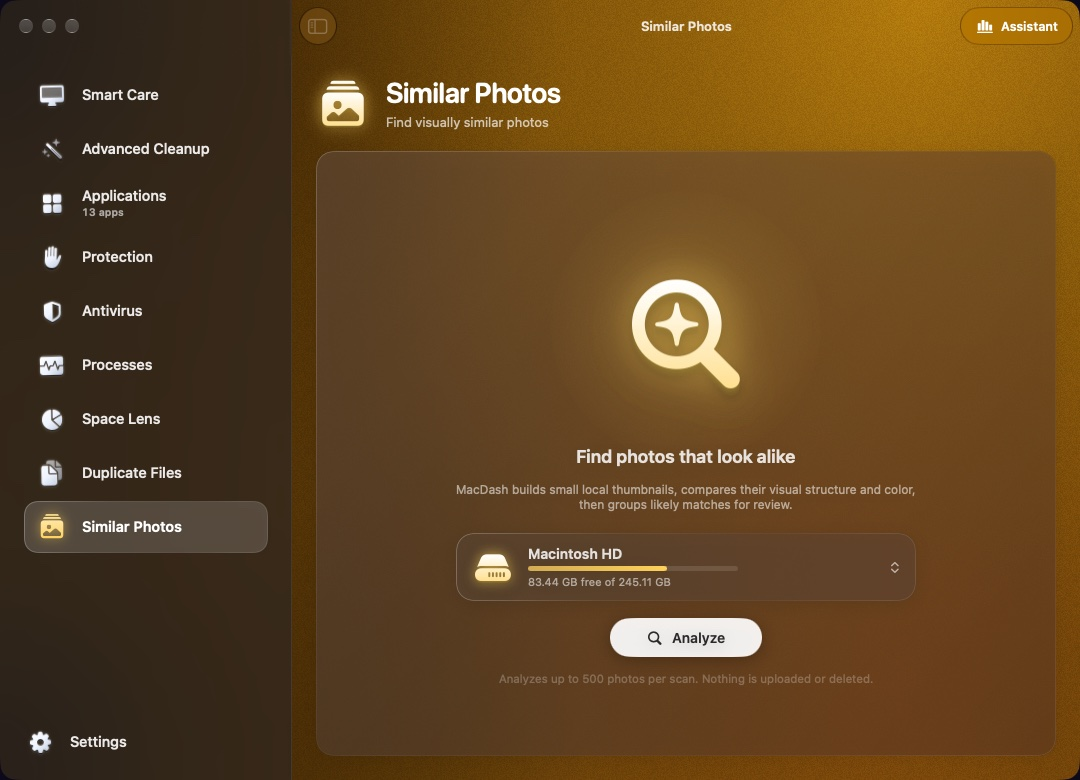
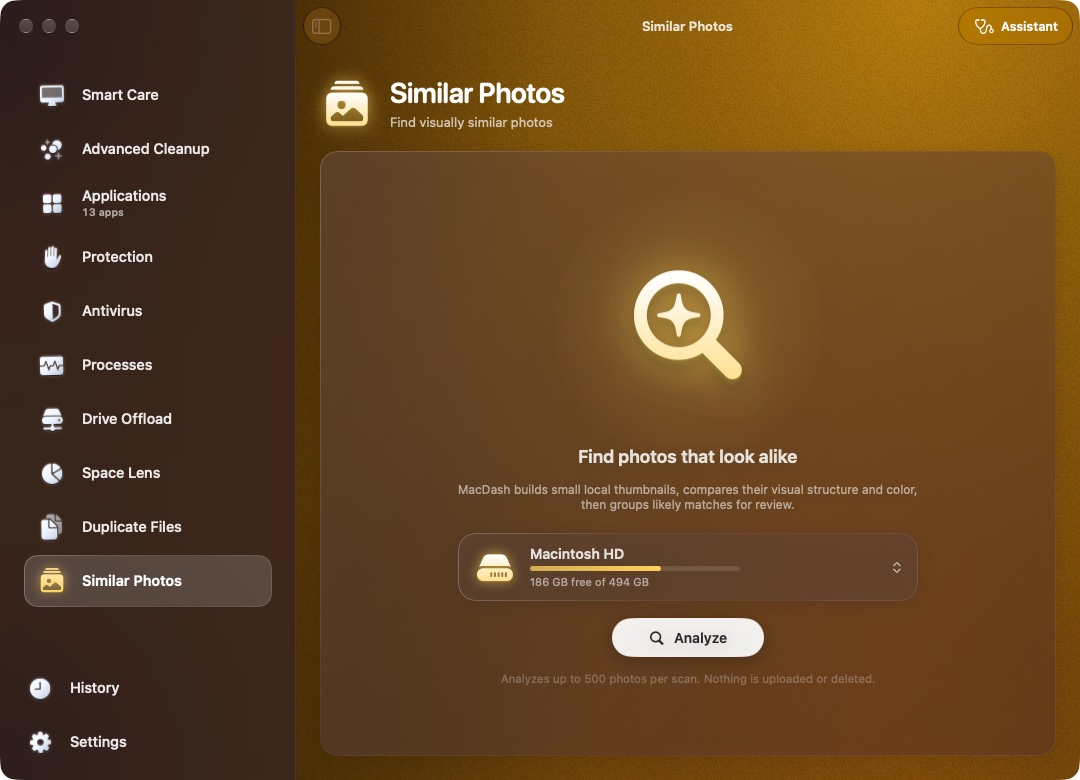
MacDash: new screenshots for 1.4 and sections for Assistant, History and Drive Offload
Shots retaken in English demo mode (new sidebar and toolbar). The old Assistant card described a panel that no longer exists.

diff --git a/macdash/index.html b/macdash/index.html
@@ -66,12 +66,12 @@
     <p class="req"><span data-version="macdash" data-no-i18n></span> macOS 13 Ventura ou mais novo · Apple Silicon e Intel · Gratuito</p>
 
     <div class="wu-stage">
-      <figure class="wu-main"><button class="shot" type="button"><img src="../assets/shots/macdash/home.jpg?v=202610271200" alt="Cuidado inteligente do MacDash: o que será verificado, o disco, CPU, memória e temperatura do Mac" width="1080" height="780"></button></figure>
-      <figure class="wu-float wu-float-tray" style="width:34%"><button class="shot" type="button"><img src="../assets/shots/macdash/processes.jpg?v=202610271200" alt="Processos: CPU, memória, temperatura e atividade do Mac" width="800" height="400"></button></figure>
+      <figure class="wu-main"><button class="shot" type="button"><img src="../assets/shots/macdash/home.jpg?v=202611141200" alt="Cuidado inteligente do MacDash: o que será verificado, o disco, CPU, memória e temperatura do Mac" width="1080" height="780"></button></figure>
+      <figure class="wu-float wu-float-tray" style="width:34%"><button class="shot" type="button"><img src="../assets/shots/macdash/processes.jpg?v=202611141200" alt="Processos: CPU, memória, temperatura e atividade do Mac" width="800" height="400"></button></figure>
     </div>
 
     <div class="wu-stats">
-      <div><b>9</b><span>ferramentas numa janela</span></div>
+      <div><b>11</b><span>ferramentas numa janela</span></div>
       <div><b>8</b><span>áreas na limpeza avançada</span></div>
       <div><b>13</b><span>idiomas na interface</span></div>
       <div><b>0</b><span>itens removidos sem revisão</span></div>
@@ -90,14 +90,50 @@
         <button type="button" role="tab" id="t-plan" aria-controls="p-plan">Plano de limpeza</button>
         <button type="button" role="tab" id="t-review" aria-controls="p-review">Revisão</button>
       </div>
-      <div class="wu-panel" role="tabpanel" id="p-plan" aria-labelledby="t-plan"><figure><button class="shot" type="button"><img src="../assets/shots/macdash/care-results.jpg?v=202610271200" alt="Resultado do Cuidado inteligente: espaço encontrado e cartões por categoria" loading="lazy" width="1080" height="780"></button><figcaption class="wu-cap">O plano de limpeza: quanto há em cada categoria e quanto está selecionado.</figcaption></figure></div>
-      <div class="wu-panel" role="tabpanel" id="p-review" aria-labelledby="t-review" hidden><figure><button class="shot" type="button"><img src="../assets/shots/macdash/care-review.jpg?v=202610271200" alt="Revisão do Cuidado inteligente: categorias à esquerda e os itens do cache à direita" loading="lazy" width="1080" height="780"></button><figcaption class="wu-cap">A revisão: categorias à esquerda, cada item à direita, marcado ou não.</figcaption></figure></div>
+      <div class="wu-panel" role="tabpanel" id="p-plan" aria-labelledby="t-plan"><figure><button class="shot" type="button"><img src="../assets/shots/macdash/care-results.jpg?v=202611141200" alt="Resultado do Cuidado inteligente: espaço encontrado e cartões por categoria" loading="lazy" width="1080" height="780"></button><figcaption class="wu-cap">O plano de limpeza: quanto há em cada categoria e quanto está selecionado.</figcaption></figure></div>
+      <div class="wu-panel" role="tabpanel" id="p-review" aria-labelledby="t-review" hidden><figure><button class="shot" type="button"><img src="../assets/shots/macdash/care-review.jpg?v=202611141200" alt="Revisão do Cuidado inteligente: categorias à esquerda e os itens do cache à direita" loading="lazy" width="1080" height="780"></button><figcaption class="wu-cap">A revisão: categorias à esquerda, cada item à direita, marcado ou não.</figcaption></figure></div>
     </div>
     <div class="wu-pair" style="max-width:1040px;margin:36px auto 0">
       <figure><button class="shot" type="button"><img src="../assets/shots/macdash/crop-health.jpg?v=202610271200" alt="Painel Meu Mac: uso do disco, CPU, memória e temperatura ao vivo" loading="lazy" width="725" height="272"></button><figcaption>O seu Mac ao vivo</figcaption></figure>
       <figure><button class="shot" type="button"><img src="../assets/shots/macdash/crop-found.jpg?v=202610271200" alt="Espaço encontrado pelo Cuidado inteligente, por categoria" loading="lazy" width="742" height="244"></button><figcaption>Quanto dá para liberar</figcaption></figure>
     </div>
     <p class="wu-cap">Capturas com dados fictícios de demonstração.</p>
+  </section>
+
+  <!-- ASSISTENTE -->
+  <section class="section container wu-chapter">
+    <div class="section-head">
+      <p class="wu-kicker">Assistente</p>
+      <h2>Pergunte ao Mac o que está ocupando espaço.</h2>
+      <p>Sem IA e sem internet: o Assistente mede o disco e os seus projetos, mostra para onde foi o espaço e lista o que vale a pena fazer, do mais urgente ao que é só bom saber. Ele conhece pastas de build, extensões antigas do VS Code e sessões do Claude Code.</p>
+    </div>
+    <div class="wu-tabset">
+      <div class="wu-tabs" role="tablist" aria-label="Assistente">
+        <button type="button" role="tab" id="t-as-start" aria-controls="p-as-start">Início</button>
+        <button type="button" role="tab" id="t-as-diag" aria-controls="p-as-diag">Diagnóstico</button>
+        <button type="button" role="tab" id="t-as-recs" aria-controls="p-as-recs">Recomendações</button>
+        <button type="button" role="tab" id="t-as-confirm" aria-controls="p-as-confirm">Confirmação</button>
+      </div>
+      <div class="wu-panel" role="tabpanel" id="p-as-start" aria-labelledby="t-as-start"><figure><button class="shot" type="button"><img src="../assets/shots/macdash/assistant.jpg?v=202611141200" alt="Assistente do MacDash pronto para analisar o Mac ou uma pasta" loading="lazy" width="1080" height="780"></button><figcaption class="wu-cap">Analise o Mac inteiro ou só uma pasta. Pelo Finder também: botão direito › Analisar com MacDash.</figcaption></figure></div>
+      <div class="wu-panel" role="tabpanel" id="p-as-diag" aria-labelledby="t-as-diag" hidden><figure><button class="shot" type="button"><img src="../assets/shots/macdash/assistant-results.jpg?v=202611141200" alt="Resultado do Assistente: espaço que pode ser recuperado e o que ocupa o disco" loading="lazy" width="1080" height="780"></button><figcaption class="wu-cap">Quanto dá para recuperar e o que ocupa o disco, numa barra só.</figcaption></figure></div>
+      <div class="wu-panel" role="tabpanel" id="p-as-recs" aria-labelledby="t-as-recs" hidden><figure><button class="shot" type="button"><img src="../assets/shots/macdash/assistant-recs.jpg?v=202611141200" alt="Recomendações do Assistente agrupadas por urgência" loading="lazy" width="1080" height="780"></button><figcaption class="wu-cap">Recomendações por urgência, cada uma com o botão da ferramenta certa.</figcaption></figure></div>
+      <div class="wu-panel" role="tabpanel" id="p-as-confirm" aria-labelledby="t-as-confirm" hidden><figure><button class="shot" type="button"><img src="../assets/shots/macdash/assistant-review.jpg?v=202611141200" alt="Confirmação do Assistente: os itens conferidos de novo antes de ir para a Lixeira" loading="lazy" width="1080" height="780"></button><figcaption class="wu-cap">Antes de mover, cada arquivo é conferido de novo e você escolhe o que vai para a Lixeira.</figcaption></figure></div>
+    </div>
+  </section>
+
+  <section class="section container wu-chapter">
+    <div class="wu-split reverse">
+      <div class="wu-copy">
+        <p class="wu-kicker">Histórico</p>
+        <h2>Cada análise fica guardada.</h2>
+        <p>O Histórico mostra o que o MacDash já fez neste Mac e todas as análises do Assistente. Abra uma para rever o que foi encontrado e o que foi feito, ou apague as antigas.</p>
+        <ul class="wu-list">
+          <li><b>Relatórios só de leitura</b>: nada é executado a partir de uma análise antiga; uma nova confere tudo de novo.</li>
+          <li><b>Apague</b> um relatório, os com mais de 30 dias ou todos.</li>
+        </ul>
+      </div>
+      <div class="wu-media"><figure><button class="shot" type="button"><img src="../assets/shots/macdash/history.jpg?v=202611141200" alt="Histórico do MacDash: atividade e a lista de análises" loading="lazy" width="1080" height="780"></button></figure></div>
+    </div>
   </section>
 
   <!-- LIMPEZA AVANÇADA -->
@@ -113,9 +149,9 @@
         <button type="button" role="tab" id="t-found" aria-controls="p-found">Encontrado</button>
         <button type="button" role="tab" id="t-xcode" aria-controls="p-xcode">Revisão</button>
       </div>
-      <div class="wu-panel" role="tabpanel" id="p-areas" aria-labelledby="t-areas"><figure><button class="shot" type="button"><img src="../assets/shots/macdash/cleanup.jpg?v=202610271200" alt="Limpeza avançada antes de verificar: arquivos, desenvolvedor e máquinas virtuais" loading="lazy" width="1080" height="780"></button><figcaption class="wu-cap">Arquivos grandes, arquivos órfãos, apps sem uso, Xcode, Homebrew, Node, Docker e apps de IA locais.</figcaption></figure></div>
-      <div class="wu-panel" role="tabpanel" id="p-found" aria-labelledby="t-found" hidden><figure><button class="shot" type="button"><img src="../assets/shots/macdash/cleanup-results.jpg?v=202610271200" alt="Limpeza avançada depois de verificar, com o tamanho encontrado em cada área" loading="lazy" width="1080" height="780"></button><figcaption class="wu-cap">O tamanho de cada área, pronto para revisar.</figcaption></figure></div>
-      <div class="wu-panel" role="tabpanel" id="p-xcode" aria-labelledby="t-xcode" hidden><figure><button class="shot" type="button"><img src="../assets/shots/macdash/cleanup-review.jpg?v=202610271200" alt="Revisão da Limpeza avançada com os itens do Xcode" loading="lazy" width="1080" height="780"></button><figcaption class="wu-cap">Cada área com os seus itens, para marcar ou desmarcar antes de limpar.</figcaption></figure></div>
+      <div class="wu-panel" role="tabpanel" id="p-areas" aria-labelledby="t-areas"><figure><button class="shot" type="button"><img src="../assets/shots/macdash/cleanup.jpg?v=202611141200" alt="Limpeza avançada antes de verificar: arquivos, desenvolvedor e máquinas virtuais" loading="lazy" width="1080" height="780"></button><figcaption class="wu-cap">Arquivos grandes, arquivos órfãos, apps sem uso, Xcode, Homebrew, Node, Docker e apps de IA locais.</figcaption></figure></div>
+      <div class="wu-panel" role="tabpanel" id="p-found" aria-labelledby="t-found" hidden><figure><button class="shot" type="button"><img src="../assets/shots/macdash/cleanup-results.jpg?v=202611141200" alt="Limpeza avançada depois de verificar, com o tamanho encontrado em cada área" loading="lazy" width="1080" height="780"></button><figcaption class="wu-cap">O tamanho de cada área, pronto para revisar.</figcaption></figure></div>
+      <div class="wu-panel" role="tabpanel" id="p-xcode" aria-labelledby="t-xcode" hidden><figure><button class="shot" type="button"><img src="../assets/shots/macdash/cleanup-review.jpg?v=202611141200" alt="Revisão da Limpeza avançada com os itens do Xcode" loading="lazy" width="1080" height="780"></button><figcaption class="wu-cap">Cada área com os seus itens, para marcar ou desmarcar antes de limpar.</figcaption></figure></div>
     </div>
   </section>
 
@@ -131,7 +167,7 @@
           <li><b>Atualizações</b> dos seus apps num lugar só.</li>
         </ul>
       </div>
-      <div class="wu-media"><figure><button class="shot" type="button"><img src="../assets/shots/macdash/apps.jpg?v=202610271200" alt="Aplicativos: lista de apps com o tamanho de cada um, abas Desinstalar, Itens de início e Atualizações" loading="lazy" width="1080" height="780"></button></figure></div>
+      <div class="wu-media"><figure><button class="shot" type="button"><img src="../assets/shots/macdash/apps.jpg?v=202611141200" alt="Aplicativos: lista de apps com o tamanho de cada um, abas Desinstalar, Itens de início e Atualizações" loading="lazy" width="1080" height="780"></button></figure></div>
     </div>
   </section>
 
@@ -147,7 +183,7 @@
           <li><b>Testar proteção</b> com o padrão de teste EICAR.</li>
         </ul>
       </div>
-      <div class="wu-media"><figure><button class="shot" type="button"><img src="../assets/shots/macdash/antivirus.jpg?v=202610271200" alt="Antivírus: última verificação, itens para revisar, quarentena e regras" loading="lazy" width="1080" height="780"></button></figure></div>
+      <div class="wu-media"><figure><button class="shot" type="button"><img src="../assets/shots/macdash/antivirus.jpg?v=202611141200" alt="Antivírus: última verificação, itens para revisar, quarentena e regras" loading="lazy" width="1080" height="780"></button></figure></div>
     </div>
   </section>
 
@@ -160,20 +196,36 @@
     </div>
     <div class="wu-skins">
       <article class="wu-skin" style="--s:#f43f5e">
-        <button class="shot" type="button"><img src="../assets/shots/macdash/spacelens.jpg?v=202610271200" alt="Lente de espaço pronta para analisar o disco" loading="lazy" width="1080" height="780"></button>
+        <button class="shot" type="button"><img src="../assets/shots/macdash/spacelens.jpg?v=202611141200" alt="Lente de espaço pronta para analisar o disco" loading="lazy" width="1080" height="780"></button>
         <h3>Lente de espaço</h3>
         <p>Um mapa do disco ou de uma pasta por tamanho. Entre nas pastas e escolha o que não precisa mais.</p>
       </article>
       <article class="wu-skin" style="--s:#2dd4bf">
-        <button class="shot" type="button"><img src="../assets/shots/macdash/duplicates.jpg?v=202610271200" alt="Arquivos duplicados pronto para analisar" loading="lazy" width="1080" height="780"></button>
+        <button class="shot" type="button"><img src="../assets/shots/macdash/duplicates.jpg?v=202611141200" alt="Arquivos duplicados pronto para analisar" loading="lazy" width="1080" height="780"></button>
         <h3>Arquivos duplicados</h3>
         <p>Compara tamanhos primeiro e depois confere byte a byte. Uma cópia de cada grupo fica sempre protegida.</p>
       </article>
       <article class="wu-skin" style="--s:#fbbf24">
-        <button class="shot" type="button"><img src="../assets/shots/macdash/photos.jpg?v=202610271200" alt="Fotos semelhantes pronto para analisar" loading="lazy" width="1080" height="780"></button>
+        <button class="shot" type="button"><img src="../assets/shots/macdash/photos.jpg?v=202611141200" alt="Fotos semelhantes pronto para analisar" loading="lazy" width="1080" height="780"></button>
         <h3>Fotos semelhantes</h3>
         <p>Miniaturas locais comparadas por estrutura e cor, até 500 fotos por análise. Nada é enviado.</p>
       </article>
+    </div>
+  </section>
+
+  <!-- DISCO EXTERNO -->
+  <section class="section container wu-chapter">
+    <div class="wu-split">
+      <div class="wu-copy">
+        <p class="wu-kicker">Disco externo</p>
+        <h2>Mova pastas grandes para um SSD externo.</h2>
+        <p>Modelos de IA, simuladores, máquinas virtuais, Downloads e projetos podem morar num disco externo APFS. O MacDash copia, confere arquivo por arquivo e deixa um link no lugar, então os apps continuam achando tudo.</p>
+        <ul class="wu-list">
+          <li><b>Tudo pode voltar</b>: um interruptor traz a pasta de volta para o Mac.</li>
+          <li><b>Sugestões</b> das pastas que mais liberam espaço.</li>
+        </ul>
+      </div>
+      <div class="wu-media"><figure><button class="shot" type="button"><img src="../assets/shots/macdash/driveoffload.jpg?v=202611141200" alt="Disco externo: pastas movidas para o SSD e sugestões do que mover" loading="lazy" width="1080" height="780"></button></figure></div>
     </div>
   </section>
 
@@ -190,7 +242,7 @@
           <li><b>Barra de menus</b>: um monitor do sistema ao lado do relógio, se você quiser.</li>
         </ul>
       </div>
-      <div class="wu-media"><figure><button class="shot" type="button"><img src="../assets/shots/macdash/settings.jpg?v=202610271200" alt="Ajustes do MacDash: permissões com o status de cada uma" loading="lazy" width="1080" height="560"></button></figure></div>
+      <div class="wu-media"><figure><button class="shot" type="button"><img src="../assets/shots/macdash/settings.jpg?v=202611141200" alt="Ajustes do MacDash: permissões com o status de cada uma" loading="lazy" width="1080" height="560"></button></figure></div>
     </div>
   </section>
 
@@ -199,7 +251,7 @@
     <div class="section-head"><h2>E mais um pouco</h2></div>
     <div class="wu-more">
       <article class="card"><h3>Verificação agendada</h3><p>De hora em hora a mensal, com aviso quando termina.</p></article>
-      <article class="card"><h3>Assistente</h3><p>Sugestões do que fazer em seguida, num painel no canto da janela.</p></article>
+      <article class="card"><h3>Análise pelo Finder</h3><p>Clique com o botão direito numa pasta e escolha Analisar com MacDash.</p></article>
       <article class="card"><h3>13 idiomas</h3><p>Português, inglês, espanhol, francês, alemão, japonês, chinês e mais.</p></article>
       <article class="card"><h3>Atualizações no app</h3><p>O MacDash avisa quando sai uma versão nova.</p></article>
     </div>
@@ -288,7 +340,7 @@
 <script src="../install-command.js?v=202611071600"></script>
 <script src="../script.js?v=202611071700"></script>
 <script src="../i18n-strings.js?v=202611071700"></script>
-<script src="strings.js?v=202610271200"></script>
+<script src="strings.js?v=202611141200"></script>
 <script src="page.js?v=202610271200"></script>
 <script src="../i18n.js?v=202610271200"></script>
 <script src="../effects.js?v=202611061900"></script>

diff --git a/macdash/strings.js b/macdash/strings.js
@@ -74,7 +74,6 @@ window.WITCH_STRINGS = Object.freeze({
   "Verificação agendada": ["Scheduled scans", "Análisis programado", "Проверки по расписанию"],
   "De hora em hora a mensal, com aviso quando termina.": ["From hourly to monthly, with a notice when it's done.", "De cada hora a mensual, con aviso al terminar.", "От ежечасных до ежемесячных — с уведомлением по завершении."],
   "Assistente": ["Assistant", "Asistente", "Помощник"],
-  "Sugestões do que fazer em seguida, num painel no canto da janela.": ["Suggestions for what to do next, in a panel in the window's corner.", "Sugerencias de qué hacer a continuación, en un panel en la esquina de la ventana.", "Подсказки о том, что сделать дальше, — на панели в углу окна."],
   "13 idiomas": ["13 languages", "13 idiomas", "13 языков"],
   "Português, inglês, espanhol, francês, alemão, japonês, chinês e mais.": ["Portuguese, English, Spanish, French, German, Japanese, Chinese and more.", "Portugués, inglés, español, francés, alemán, japonés, chino y más.", "Португальский, английский, испанский, французский, немецкий, японский, китайский и другие."],
   "Atualizações no app": ["In-app updates", "Actualizaciones en la app", "Обновления в приложении"],
@@ -98,4 +97,36 @@ window.WITCH_STRINGS = Object.freeze({
   "O seu Mac ao vivo": ["Your Mac, live", "Tu Mac en vivo", "Ваш Mac в реальном времени"],
   "Espaço encontrado pelo Cuidado inteligente, por categoria": ["Space found by Smart Care, by category", "Espacio encontrado por el Cuidado inteligente, por categoría", "Место, найденное «Умной заботой», по категориям"],
   "Quanto dá para liberar": ["How much you can free up", "Cuánto puedes liberar", "Сколько можно освободить"],
+  "Pergunte ao Mac o que está ocupando espaço.": ["Ask your Mac what is taking up space.", "Pregúntale a tu Mac qué ocupa espacio.", "Спросите Mac, что занимает место."],
+  "Sem IA e sem internet: o Assistente mede o disco e os seus projetos, mostra para onde foi o espaço e lista o que vale a pena fazer, do mais urgente ao que é só bom saber. Ele conhece pastas de build, extensões antigas do VS Code e sessões do Claude Code.": ["No AI and no internet: the Assistant measures the disk and your projects, shows where the space went and lists what is worth doing, from the most urgent to what is just good to know. It knows build folders, old VS Code extensions and Claude Code sessions.", "Sin IA y sin internet: el Asistente mide el disco y tus proyectos, muestra a dónde fue el espacio y enumera lo que vale la pena hacer, de lo más urgente a lo que solo conviene saber. Conoce las carpetas de compilación, las extensiones antiguas de VS Code y las sesiones de Claude Code.", "Без ИИ и без интернета: Помощник измеряет диск и ваши проекты, показывает, куда ушло место, и перечисляет, что стоит сделать — от самого срочного до того, что просто полезно знать. Он знает папки сборки, старые расширения VS Code и сеансы Claude Code."],
+  "Início": ["Start", "Inicio", "Начало"],
+  "Diagnóstico": ["Diagnosis", "Diagnóstico", "Диагностика"],
+  "Recomendações": ["Recommendations", "Recomendaciones", "Рекомендации"],
+  "Confirmação": ["Confirmation", "Confirmación", "Подтверждение"],
+  "Assistente do MacDash pronto para analisar o Mac ou uma pasta": ["MacDash Assistant ready to analyze the Mac or a folder", "Asistente de MacDash listo para analizar el Mac o una carpeta", "Помощник MacDash готов проанализировать Mac или папку"],
+  "Analise o Mac inteiro ou só uma pasta. Pelo Finder também: botão direito › Analisar com MacDash.": ["Analyze the whole Mac or just one folder. From Finder too: right-click › Analyze with MacDash.", "Analiza todo el Mac o solo una carpeta. También desde el Finder: clic derecho › Analizar con MacDash.", "Анализируйте весь Mac или одну папку. И прямо из Finder: правый щелчок › Анализировать в MacDash."],
+  "Resultado do Assistente: espaço que pode ser recuperado e o que ocupa o disco": ["Assistant result: space that can be recovered and what uses the disk", "Resultado del Asistente: espacio que se puede recuperar y qué ocupa el disco", "Результат Помощника: сколько места можно вернуть и что занимает диск"],
+  "Quanto dá para recuperar e o que ocupa o disco, numa barra só.": ["How much can be recovered and what uses the disk, in a single bar.", "Cuánto se puede recuperar y qué ocupa el disco, en una sola barra.", "Сколько можно вернуть и что занимает диск — на одной полосе."],
+  "Recomendações do Assistente agrupadas por urgência": ["Assistant recommendations grouped by urgency", "Recomendaciones del Asistente agrupadas por urgencia", "Рекомендации Помощника, сгруппированные по срочности"],
+  "Recomendações por urgência, cada uma com o botão da ferramenta certa.": ["Recommendations by urgency, each with a button to the right tool.", "Recomendaciones por urgencia, cada una con el botón de la herramienta adecuada.", "Рекомендации по срочности, у каждой — кнопка нужного инструмента."],
+  "Confirmação do Assistente: os itens conferidos de novo antes de ir para a Lixeira": ["Assistant confirmation: the items checked again before going to the Trash", "Confirmación del Asistente: los elementos comprobados de nuevo antes de ir a la Papelera", "Подтверждение Помощника: элементы, повторно проверенные перед отправкой в Корзину"],
+  "Antes de mover, cada arquivo é conferido de novo e você escolhe o que vai para a Lixeira.": ["Before anything moves, each file is checked again and you choose what goes to the Trash.", "Antes de mover nada, cada archivo se comprueba de nuevo y tú eliges qué va a la Papelera.", "Перед перемещением каждый файл проверяется снова, а вы выбираете, что отправить в Корзину."],
+  "Histórico": ["History", "Historial", "История"],
+  "Cada análise fica guardada.": ["Every analysis is kept.", "Cada análisis queda guardado.", "Каждый анализ сохраняется."],
+  "O Histórico mostra o que o MacDash já fez neste Mac e todas as análises do Assistente. Abra uma para rever o que foi encontrado e o que foi feito, ou apague as antigas.": ["History shows what MacDash has done on this Mac and every analysis the Assistant made. Open one to review what was found and what was done, or delete old ones.", "El Historial muestra lo que MacDash ha hecho en este Mac y todos los análisis del Asistente. Abre uno para revisar lo que se encontró y lo que se hizo, o borra los antiguos.", "История показывает, что MacDash сделал на этом Mac, и все анализы Помощника. Откройте любой, чтобы посмотреть, что было найдено и сделано, или удалите старые."],
+  "Relatórios só de leitura": ["Read-only reports", "Informes de solo lectura", "Отчёты только для чтения"],
+  ": nada é executado a partir de uma análise antiga; uma nova confere tudo de novo.": [": nothing runs from an old analysis; a new one checks everything again.", ": nada se ejecuta a partir de un análisis antiguo; uno nuevo lo comprueba todo de nuevo.", ": по старому анализу ничего не выполняется — новый проверяет всё заново."],
+  "Apague": ["Delete", "Borra", "Удаляйте"],
+  "um relatório, os com mais de 30 dias ou todos.": ["a report, those older than 30 days, or all of them.", "un informe, los de más de 30 días o todos.", "отчёт, отчёты старше 30 дней или все сразу."],
+  "Histórico do MacDash: atividade e a lista de análises": ["MacDash History: activity and the list of analyses", "Historial de MacDash: actividad y la lista de análisis", "История MacDash: активность и список анализов"],
+  "Disco externo": ["Drive Offload", "Traslado externo", "Перенос на диск"],
+  "Mova pastas grandes para um SSD externo.": ["Move large folders to an external SSD.", "Mueve carpetas grandes a un SSD externo.", "Переносите большие папки на внешний SSD."],
+  "Modelos de IA, simuladores, máquinas virtuais, Downloads e projetos podem morar num disco externo APFS. O MacDash copia, confere arquivo por arquivo e deixa um link no lugar, então os apps continuam achando tudo.": ["AI models, simulators, virtual machines, Downloads and projects can live on an external APFS drive. MacDash copies them, checks file by file and leaves a link in place, so apps keep finding everything.", "Modelos de IA, simuladores, máquinas virtuales, Descargas y proyectos pueden vivir en un disco externo APFS. MacDash los copia, comprueba archivo por archivo y deja un enlace en su lugar, así las apps siguen encontrándolo todo.", "Модели ИИ, симуляторы, виртуальные машины, Загрузки и проекты могут жить на внешнем диске APFS. MacDash копирует их, проверяет файл за файлом и оставляет на месте ссылку, так что программы по-прежнему всё находят."],
+  "Tudo pode voltar": ["Everything can come back", "Todo puede volver", "Всё можно вернуть"],
+  ": um interruptor traz a pasta de volta para o Mac.": [": a switch brings the folder back to the Mac.", ": un interruptor devuelve la carpeta al Mac.", ": переключатель возвращает папку на Mac."],
+  "Sugestões": ["Suggestions", "Sugerencias", "Подсказки"],
+  "das pastas que mais liberam espaço.": ["for the folders that free up the most space.", "de las carpetas que más espacio liberan.", "о папках, которые освобождают больше всего места."],
+  "Disco externo: pastas movidas para o SSD e sugestões do que mover": ["Drive Offload: folders moved to the SSD and suggestions of what to move", "Traslado externo: carpetas movidas al SSD y sugerencias de qué mover", "Перенос на диск: папки, перенесённые на SSD, и подсказки, что перенести"],
+  "Análise pelo Finder": ["Analysis from Finder", "Análisis desde el Finder", "Анализ из Finder"],
+  "Clique com o botão direito numa pasta e escolha Analisar com MacDash.": ["Right-click a folder and choose Analyze with MacDash.", "Haz clic derecho en una carpeta y elige Analizar con MacDash.", "Щёлкните папку правой кнопкой и выберите «Анализировать в MacDash»."],
 });

diff --git a/index.html b/index.html
@@ -179,8 +179,8 @@
           </div>
         </div>
         <a class="spot-art" href="macdash/" tabindex="-1" aria-hidden="true">
-          <img class="spot-shot" src="assets/shots/macdash/home.jpg?v=202610271000" alt="" width="1080" height="780" decoding="async" loading="lazy">
-          <img class="spot-shot spot-shot-2" src="assets/shots/macdash/care-results.jpg?v=202610271000" alt="" width="1080" height="780" decoding="async" loading="lazy">
+          <img class="spot-shot" src="assets/shots/macdash/home.jpg?v=202611141200" alt="" width="1080" height="780" decoding="async" loading="lazy">
+          <img class="spot-shot spot-shot-2" src="assets/shots/macdash/care-results.jpg?v=202611141200" alt="" width="1080" height="780" decoding="async" loading="lazy">
         </a>
       </article>
       <article class="spot" data-app="bettercraft" style="--c:#3b82f6" aria-roledescription="slide" aria-label="BetterCraft">
@@ -494,7 +494,7 @@
       </article>
       <article class="app-card" data-app="macdash" data-cats="util" style="--c:#e879f9">
         <div class="app-media">
-          <img class="app-thumb" src="assets/thumbs/macdash.webp?v=202611071200" alt="" loading="lazy" decoding="async" width="640" height="400">
+          <img class="app-thumb" src="assets/thumbs/macdash.webp?v=202611141200" alt="" loading="lazy" decoding="async" width="640" height="400">
           <button type="button" class="ql-btn" data-preview aria-label="Prévia rápida"><svg viewBox="0 0 20 20" aria-hidden="true"><path d="M1.8 10S5 4.2 10 4.2 18.2 10 18.2 10 15 15.8 10 15.8 1.8 10 1.8 10Z" fill="none" stroke="currentColor" stroke-width="1.6" stroke-linejoin="round"/><circle cx="10" cy="10" r="2.6" fill="none" stroke="currentColor" stroke-width="1.6"/></svg><span>Prévia</span></button>
         </div>
         <div class="app-body">
@@ -513,8 +513,8 @@
           <div class="ql-media">
             <div class="ql-stage"></div>
             <div class="ql-thumbs" role="group" aria-label="Capturas de tela">
-            <button class="shot" type="button"><img data-src="assets/shots/macdash/home.jpg?v=202610271000" alt="MacDash na Limpeza Inteligente, com o resumo do Mac e o botão de escanear" width="1080" height="780"></button>
-            <button class="shot" type="button"><img data-src="assets/shots/macdash/care-results.jpg?v=202610271000" alt="Resultado da Limpeza Inteligente com o plano de limpeza por categoria" width="1080" height="780"></button>
+            <button class="shot" type="button"><img data-src="assets/shots/macdash/home.jpg?v=202611141200" alt="MacDash na Limpeza Inteligente, com o resumo do Mac e o botão de escanear" width="1080" height="780"></button>
+            <button class="shot" type="button"><img data-src="assets/shots/macdash/care-results.jpg?v=202611141200" alt="Resultado da Limpeza Inteligente com o plano de limpeza por categoria" width="1080" height="780"></button>
             </div>
           </div>
           <div class="ql-info">
